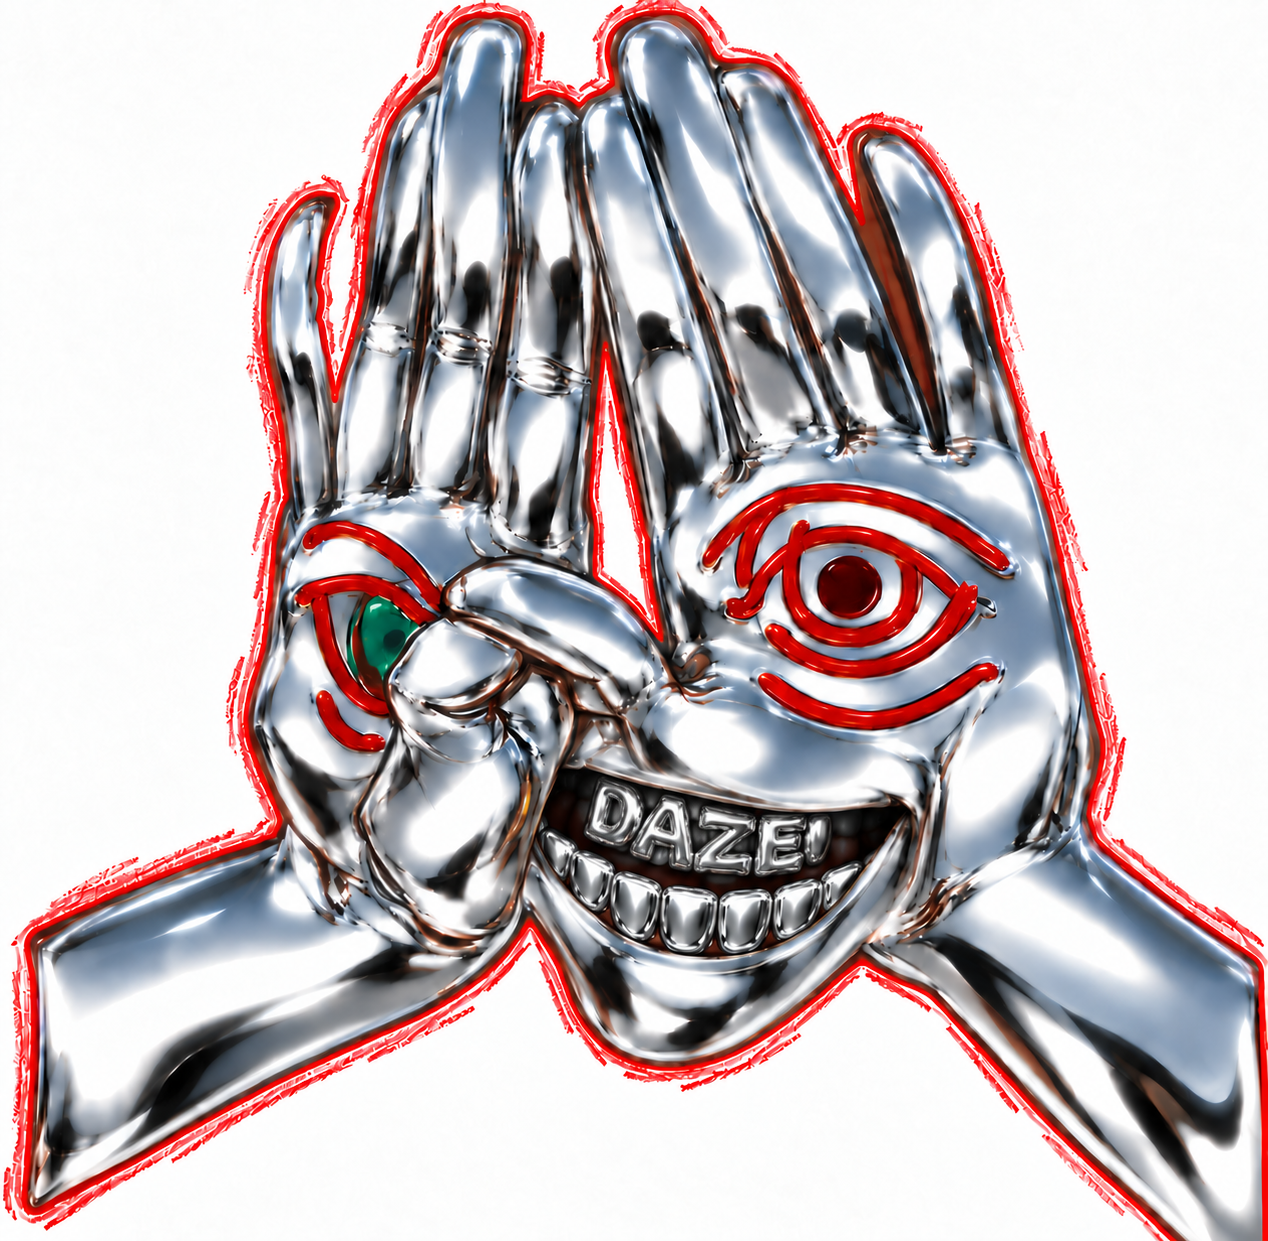
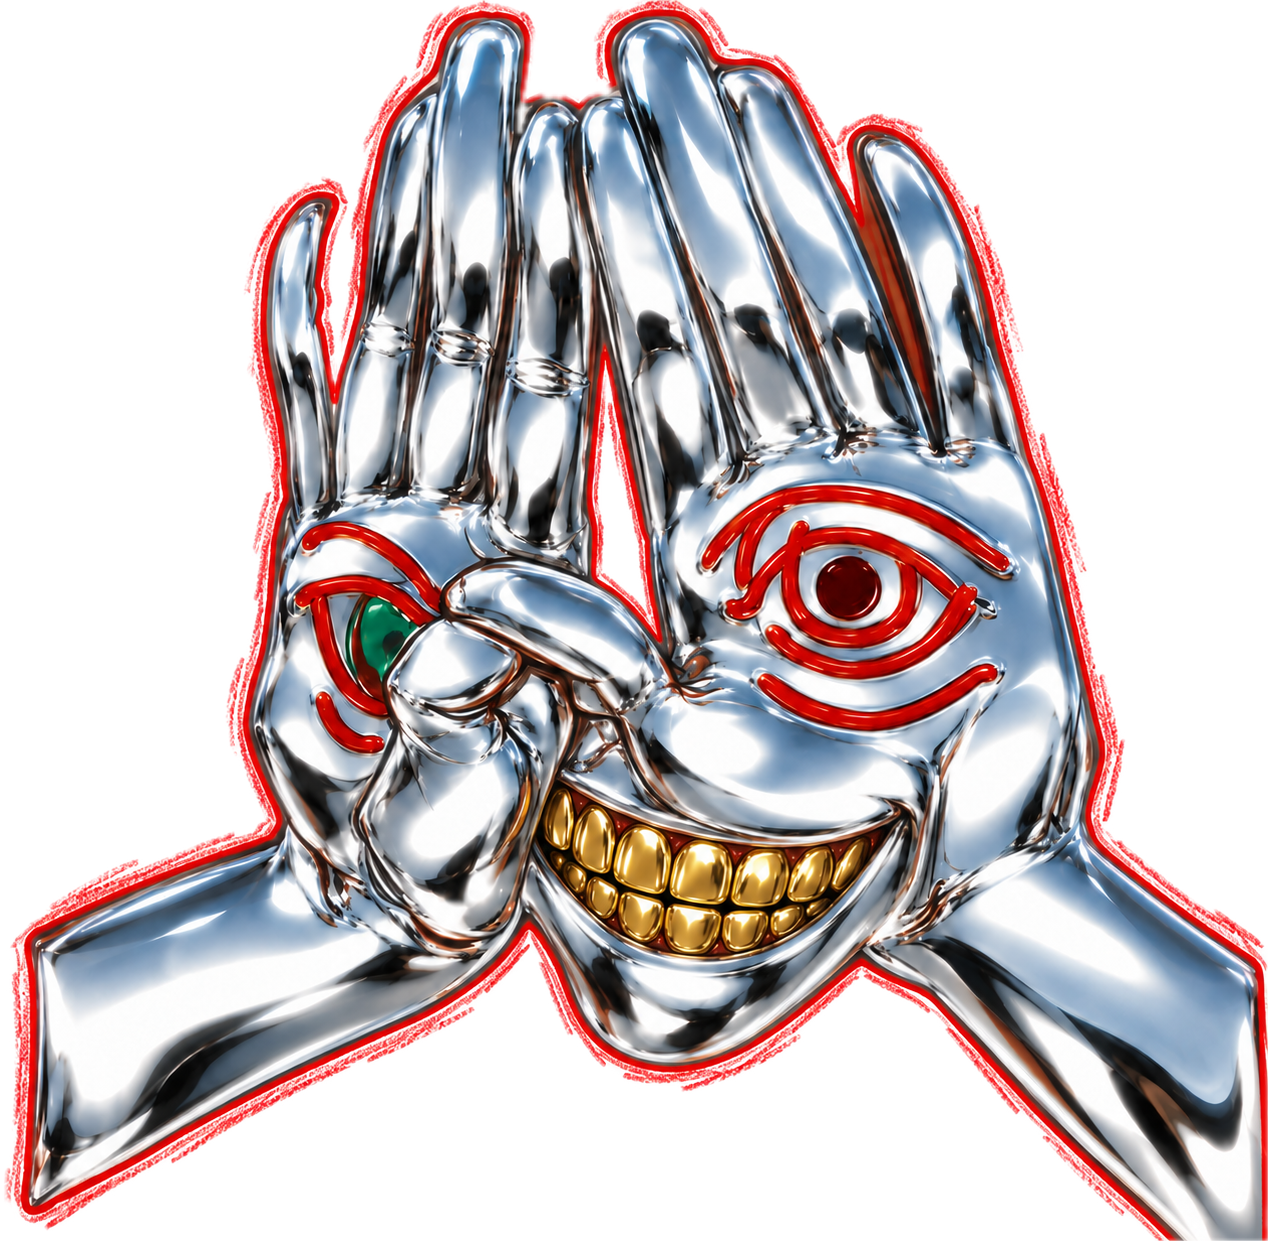
OG preview: use background-removed chrome art on site dark fill.
Drop scrim; contain transparent PNG over #0c0d10.

Changed region(s): [[0.0, 0.0, 1.0, 1.0]]

diff --git a/src/app/day/[n]/opengraph-image.tsx b/src/app/day/[n]/opengraph-image.tsx
@@ -11,6 +11,7 @@ export const contentType = "image/png";
 
 const LED_FONT = "Ledlight";
 const WHITE = "#ffffff";
+const PAGE_BG = "#0c0d10";
 const PREVIEW_BG = "public/og/preview-background.png";
 
 /** Matches former day number block (fontSize 120, lineHeight 1). */
@@ -53,6 +54,7 @@ export default async function OgImage({ params }: Props) {
           justifyContent: "center",
           alignItems: "center",
           position: "relative",
+          backgroundColor: PAGE_BG,
           color: WHITE,
         }}
       >
@@ -67,17 +69,7 @@ export default async function OgImage({ params }: Props) {
             left: 0,
             width: "100%",
             height: "100%",
-            objectFit: "cover",
-          }}
-        />
-        <div
-          style={{
-            position: "absolute",
-            top: 0,
-            left: 0,
-            width: "100%",
-            height: "100%",
-            backgroundColor: "rgba(12, 13, 16, 0.38)",
+            objectFit: "contain",
           }}
         />
         <div

diff --git a/docs/reference/README.md b/docs/reference/README.md
@@ -4,4 +4,6 @@
 |------|-----|
 | `og-preview-background.png` | Source art for social OG cards (`/day/[n]/opengraph-image`). Canonical copy lives at `public/og/preview-background.png`. |
 
-Original generation folder (local): `~/.codex/generated_images/01a0f82c-5be4-7b32-884e-27ffbd974602/` (newest export: `exec-2df4d3f6-9282-41c7-bb7a-3d841a29ed14.png`).
+Original generation folder (local): `~/.codex/generated_images/01a0f82c-5be4-7b32-884e-27ffbd974602/`.
+
+Bundled file: background-removed export `exec-3e312e80-c2ab-4dd1-8e99-079d69fa27ff Background Removed.png` (RGBA), composited on `#0c0d10` in OG cards.
